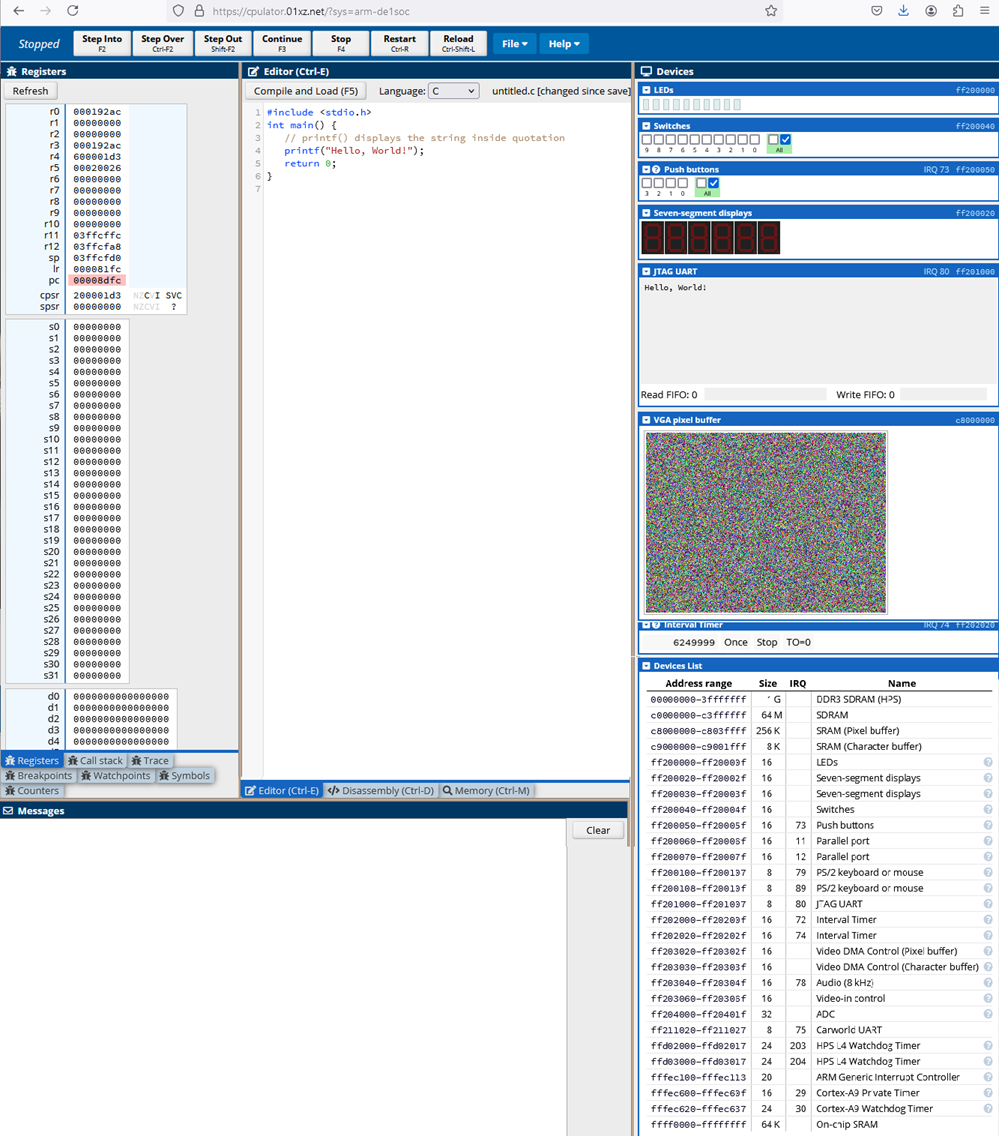
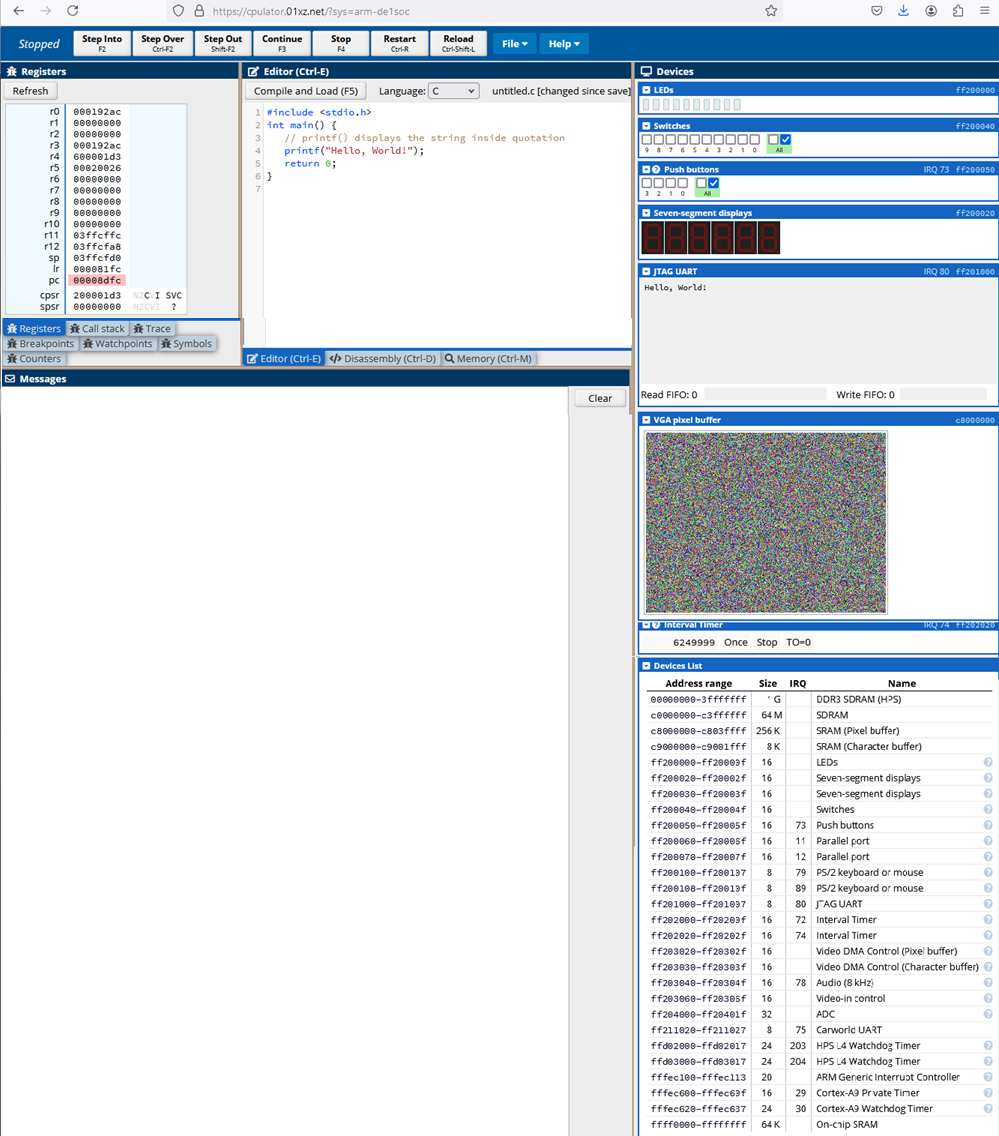
mods o stack

Changed region(s): [[0.0, 0.2773, 0.6517, 1.0]]

diff --git a/sessions/session5/docs/IntroToCPUlator.md b/sessions/session5/docs/IntroToCPUlator.md
@@ -14,7 +14,7 @@ Although running much slower than a real CPU, the simulation is completely accur
 
 Open a browser and browse to [https://cpulator.01xz.net/?sys=arm-de1soc](https://cpulator.01xz.net/?sys=arm-de1soc)
 
-You will see a screen similar to the image below.
+You will see a screen similar to the image below (but without the C program).
 
 ![alt text](../docs/images/CPUlator1.png "Figure CPUlator1.png")
 
@@ -30,26 +30,26 @@ R0-R14 can be used for any purpose.
 
 R13 (SP), R14 (LR) and R15 (PC) have special purposes as described below.
 
-In addition the results of previous operations are stored in individual bits in the CSPR and SPSR registers.
+In addition, the results of previous operations are stored as individual bits in the CSPR and SPSR registers.
 
 | name               | function                        |
 |:-------------------|:--------------------------------|
-|R13 (SP)            | Stack Pointer                   |
+|R13 (SP)            | Stack Pointer<BR>SP always points to the next available free space on the memory stack. |
 |R14 (LR)            | Link Register<BR>LR is link register used to hold the return address for a function call.                   |
 |R15 (PC)            | Program Counter<BR> The PC value is altered as the core executes instructions. An explicit write to R15 by software will alter the program flow. |
-|CPSR                | Current Program Status Register. (The following flags are the most important).<BR>N, bit [31] Negative condition flag. Set to 1 if the result of the last flag-setting instruction was negative.<BR>Z, bit [30] Zero condition flag. Set to 1 if the result of the last flag-setting instruction was zero, and to 0 otherwise. A result of zero often indicates an equal result from a comparison.<BR>C, bit [29] Carry condition flag. Set to 1 if the last flag-setting instruction resulted in a carry condition, for example an unsigned overflow on an addition.<BR>V, bit [28] Overflow condition flag. Set to 1 if the last flag-setting instruction resulted in an overflow condition, for example a signed overflow on an addition. |
-|SPSR                | Saved Program Status Register. SPSR contains a saved copy of the CPSR from the previously executed mode   |
+|CPSR                | Current Program Status Register.<BR> (The following flags of the CPSR are the most important).<BR>N, bit [31] Negative condition flag. Set to 1 if the result of the last flag-setting instruction was negative.<BR>Z, bit [30] Zero condition flag. Set to 1 if the result of the last flag-setting instruction was zero, and to 0 otherwise. A result of zero often indicates an equal result from a comparison.<BR>C, bit [29] Carry condition flag. Set to 1 if the last flag-setting instruction resulted in a carry condition, for example an unsigned overflow on an addition.<BR>V, bit [28] Overflow condition flag. Set to 1 if the last flag-setting instruction resulted in an overflow condition, for example a signed overflow on an addition. |
+|SPSR                | Saved Program Status Register. SPSR contains a saved copy of the CPSR from the previously executed mode. |
 |                    |                                 |
 
 ## Memory Mapped peripherals
 
 On the right hand panel you will see a representation of each of the peripherals. 
 
-As in most computers, the control registers provided by each peripheral are mapped into memory which can be accessed by the CPU.
+As in most computers, the control registers provided by each peripheral are mapped onto memory addresses which can be accessed by the CPU.
 
-In this simulator, each peripheral has a different address range and the peripheral is controlled by saving bytes into a register within the address range of the device.
+In this simulator, each peripheral has a different address range and the peripheral is controlled by saving bytes into the registers within the address range of the device.
 
-At the bottom of the peripheral panel, you will see a range of addresses along side the name of the device and a link (?) to the devices documentation.
+At the bottom of the CPUlator peripheral panel, you will see a range of addresses along side the name of the device and a link `(?)` to the devices documentation.
 Each device has a different set of registers with different functions which are described in the referenced documentation.
 
 ```
@@ -86,12 +86,12 @@ ffff0000–ffffffff   64  K       On-chip SRAM
 
 We are only going to play with the JTAG UART, the VGA display, and the Seven-Segment numbers.
 
-## Exercise: Running our first C program
+## Exercise: Running our first C program on the CPUlator
 
 ### A simple C program 
 
-Note - if you want to learn more about C see the [C Tutorial](https://www.w3schools.com/c/index.php).
-Many of these examples will also work in CPUlator or on your Pi.
+Note - if you want to learn more about C see the [W3 Schools C Tutorial](https://www.w3schools.com/c/index.php).
+Many of these W3 Schools examples will also work in CPUlator or on your Pi.
 
 Open the [CPUlator ARM 7 simulator](https://cpulator.01xz.net/?sys=arm-de1soc), set the Language to `C` and paste the following C program in the Editor window.
 
@@ -103,14 +103,16 @@ int main() {
    return 0;
 }
 ```
-This very simple program prints "Hello, World!" to the UART which acts as a simple terminal.
+This very simple program prints "Hello, World!" to a simple text terminal.
+
+(The program is actually writing characters to a simulated device called a UART (universal asynchronous receiver / transmitter) which uses a simple, two-wire protocol for exchanging serial data such as characters to and from a terminal).
 
 The `#include <stdio.h>` directive describes the libraries which may be called by the program. 
 In this case we are using the [Standard IO library for C](https://www.w3schools.com/c/c_ref_stdio.php)
 
-`main()` is always the entry point for a program
+`main()` is always the entry point for a program.
 
-`printf()` is the function imported from stdio.h which we are using to print our output.
+`printf()` is the function imported from `stdio.h` which we are using to print our output to the UART.
 
 The program should `return 0` to the calling process if it completes correctly.
 (Other numbers may indicate an error condition).
@@ -119,43 +121,43 @@ The program should `return 0` to the calling process if it completes correctly.
 
 Set the language button to `C` and press `Compile and Load`
 
-After a few seconds, you will see `Compile Succeeded` in the Messages window
+After a few seconds, you will see `Compile Succeeded` in the Messages window.
 
 You will also see a `Disassembly` of the compiled C code in the Disassembly widow. 
-This represents the compiled object code as it is located in the simulator's memory.
+This represents the compiled object code as it is actually located in the simulator's memory by the `link/loader`.
 
 You will note that this simple program has created a lot of Assembler code.
 Most of this is library code added by the linker to allow the `printf` command to run.
 
 At the top of the CPUlator, you will see commands to run the program.
 
-`Step Into` - runs one machine code instruction and pauses. 
-You can look at the changes in registers and memory at each step.
+`Step Into` - runs a single machine code instruction and pauses. 
+This allows you to look at the changes in registers and memory at each step.
 
-`Continue` - runs the entire program until its end or until a `breakpoint` is encountered.
+`Continue` - runs the entire program until its completion or until a `breakpoint` is encountered.
 
 You can set `breakpoints` in the assembly code by clicking on the panel beside the Address of the instruction where you want to pause.
-Try using breakpoints to pause your program and see what is in the registers and memory at each point.
+Try using breakpoints to pause your program and see what is in the registers and memory at that point.
 
-Click `continue` and look at the output in the JTAG Uart window - which is actually simulating a terminal.
+Click `Continue` and look at the output in the JTAG Uart window - which is actually simulating a terminal.
 
 You should see "Hello, World!"
 
-The GPULator disassembly window shows us all of the corresponding machine code which has been put in memory by the linker which also includes all of the assembly code to implement the `printf` function.
+The GPULator disassembly window shows us all of the corresponding machine code which has been put in memory by the linker and which also includes all of the assembly code to implement the `printf` function.
 
 We can see the specific translation of our program if we search in the disassembly window  for the `main:` lable.
 This corresponds to the `main()` function call in the C code.
 
 ![alt text](../docs/images/HelloWorldDissassembly1.png "Figure HelloWorldDissassembly1.png")
 
-I have added comments below so help you understand the assembly program.
+I have added comments to the disassembled code below so help you understand the assembly program.
 
 ```
 main:
 push {r4, lr}               // At the start of the function call push r4 and lr Link Register onto the stack
                             // This preserves the r4 data and the LR location for when we return from our program.
-movw r0, #30316 ; 0x766c    // Fill bottom 16 bits of 32 bit register r0 with 0x766c
-movt r0, #1 ; x0x1          // Fill top 16 bits of 32 bit register r0 with 0x1 (so r0 points to address 0x1766c )
+movw r0, #30316 ; 0x766c    // Fill the bottom 16 bits of 32 bit register r0 with 0x766c
+movt r0, #1 ; x0x1          // Fill the top 16 bits of 32 bit register r0 with 0x1 (so r0 points to address 0x1766c )
 bl 0x8ab0 (0x8ab0: printf)  // Call printf function by branching to its address
 mov r0 #0 ; 0x0             // Clear r0 to 0 (this is the return value 0 )
 pop {r4,pc}                 // Restore r4 and jump to next instruction which was in link register
@@ -168,7 +170,7 @@ So the program is passing the address of the "Hello, world" string as an argumen
 
 ### Stacks, Subroutines, Interrupts
 
-To complete our introduction to progrmming concepts, look at [Subroutines and Stacks](../docs/stacks-routines.md) 
+To complete our introduction to programming concepts, look at [Subroutines and Stacks](../docs/stacks-routines.md) 
 
 Then look at [Interrupts](../docs/Interrupts.md) 
 

diff --git a/sessions/session5/docs/stacks-routines.md b/sessions/session5/docs/stacks-routines.md
@@ -2,18 +2,18 @@
 
 # Subroutines and Stacks
 
-A key concept in programming is the use of subroutines or procedures, which are sections of code that perform a specific function and can be repeatedly called from many other parts of the main program.
+A key concept in programming is the use of `subroutines` (also sometimes referred to as `functions`, `methods` or `procedures`), which are sections of code that perform a specific task and can be repeatedly called from many other parts of the main program.
 
-In order to enter a subroutine, the processor must first save whatever it was doing (i.e. the registers which contain the current data) before branching to the new routine.
+In order to enter a subroutine, the processor must first save whatever it was doing (i.e. the registers which contain the current data) before `branching` to the start address of the new subroutine.
 
-When the subroutine finishes, the processor must restore the previous state and branch back to the next instruction after the instruction which caused the branch to the subroutine.
+When the subroutine finishes, the processor must restore the previous state and branch back to the next instruction after the instruction which first caused the branch to the subroutine.
 
 A `Stack` is a common mechanism which enables this behaviour.
 
 `Stacks` are regions of memory which are reserved for storing subroutine states and passing variables between subroutines.
 The top of the stack is pointed to by a `Stack Pointer`.
 
-New data is added starting at the current location of the  `Stack Pointer`.
+New data is added starting at the current location of the `Stack Pointer`.
 The `Stack Pointer` is then incremented to point to the next free space.
 This is called a `push` operation
 
@@ -35,7 +35,7 @@ If a program wants to jump to a subroutine, a `branching` (or `conditional branc
 
 See if you can follow the steps in the program in the following table.
 
-|                     |Address | instruction       |  registers                                         | stack                                                   |(step) and explanation    |
+|                     |Address | instruction       |  registers (after operation)                       | stack                                                   |(step) and explanation    |
 |:--------------------|:-------|:------------------|:---------------------------------------------------|---------------------------------------------------------|---------------|
 |                     |        |                   |PC=0x0000<BR>LR=undefined<BR>SP=0x1000<BR>R4=undefined   |0x1000=undefined                                       |(0) Initial state |
 |main program         | 0x0001 | ldr r4, =1        |PC=0x0001<BR>LR=undefined<BR>SP=0x1000<BR>R4=0x0001 |0x1000=undefined                                            |(1)  LDR (LoaD Register) r4 with number 1             |
